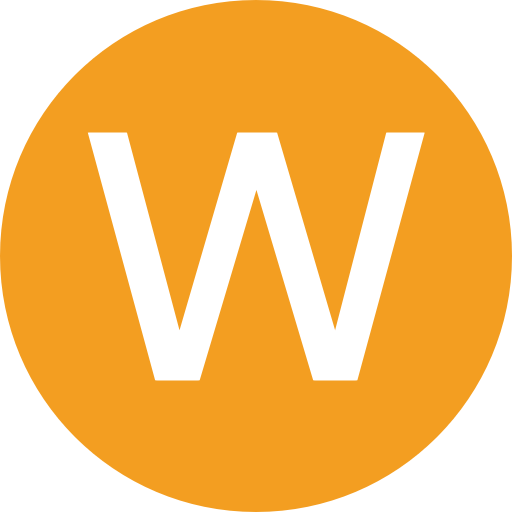
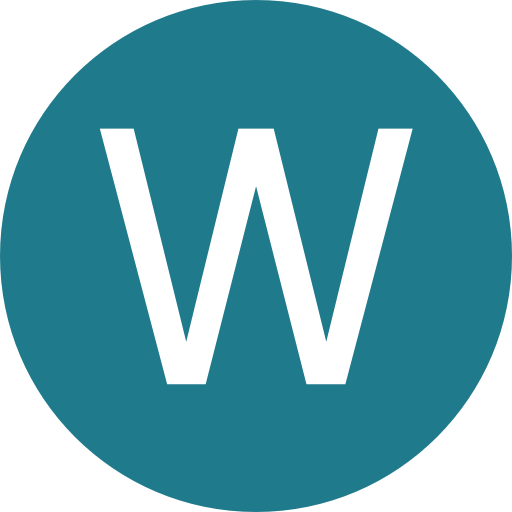
hrm works locally

diff --git a/frontend/pages/index.tsx b/frontend/pages/index.tsx
@@ -16,13 +16,13 @@ export default function Home(): JSX.Element {
   return (
     <div className={styles.page}>
       <Head>
-        <title>Wootware Clone</title>
-        <meta name="description" content="Wootware Clone — a personal storefront hobby project showcasing hardware products. For demo and learning purposes only." />
+        <title>WiredWorkshop</title>
+        <meta name="description" content="WiredWorkshop — a personal storefront hobby project showcasing hardware products. For demo and learning purposes only." />
         <meta name="author" content="Personal project" />
         <meta name="viewport" content="width=device-width, initial-scale=1" />
 
         {/* Open Graph / social */}
-        <meta property="og:title" content="Wootware Clone" />
+        <meta property="og:title" content="WiredWorkshop" />
         <meta property="og:description" content="A personal storefront hobby project showcasing hardware products. Not a production store." />
         <meta property="og:type" content="website" />
         <meta property="og:url" content="/" />
@@ -30,7 +30,7 @@ export default function Home(): JSX.Element {
 
         {/* Twitter */}
         <meta name="twitter:card" content="summary_large_image" />
-        <meta name="twitter:title" content="Wootware Clone" />
+        <meta name="twitter:title" content="WiredWorkshop" />
         <meta name="twitter:description" content="Personal storefront hobby project — demo site." />
       </Head>
       <Header />

diff --git a/frontend/components/header/header.module.css b/frontend/components/header/header.module.css
@@ -70,13 +70,13 @@
 .wishlistLink:focus-visible,
 .disabledLink:hover,
 .disabledLink:focus-visible {
-	color: #ff8c00; /* main theme orange */
+	color: #1f7a8c; /* main theme color */
 }
 
 .wishlistLink:hover .wishlistIcon,
 .wishlistLink:focus-visible .wishlistIcon {
 	transform: scale(1.06);
-	color: #ff8c00; /* ensure icon follows text color */
+	color: #1f7a8c; /* ensure icon follows text color */
 }
 
 .wishlistLink:active {
@@ -105,7 +105,7 @@
 
 .logo {
 	font-weight: 800;
-	color: #ff8c00;
+	color: #1f7a8c;
 	font-size: 24px;
 	position: relative;
 	display: inline-flex;
@@ -221,7 +221,7 @@
 /* Hover/focus only for working links */
 .category li a[href]:hover,
 .category li a[href]:focus {
-	color: #ff8c00;
+	color: #1f7a8c;
 }
 
 .brandActions {
@@ -316,8 +316,8 @@
 .searchBox input:focus,
 .searchBox input:focus-visible {
 	outline: none;
-	border-color: #ff8c00;
-	box-shadow: 0 0 0 4px rgba(255,140,0,0.10), 0 6px 18px rgba(255,140,0,0.12);
+	border-color: #1f7a8c;
+	box-shadow: 0 0 0 4px rgba(31,122,140,0.10), 0 6px 18px rgba(31,122,140,0.12);
 	transition: box-shadow .12s ease, border-color .12s ease;
 }
 
@@ -534,7 +534,7 @@
 
 .viewCart {
 	display: inline-block;
-	background: #ff8c00;
+	background: #1f7a8c;
 	color: #fff;
 	padding: 8px 12px;
 	text-decoration: none;

diff --git a/frontend/pages/_app.tsx b/frontend/pages/_app.tsx
@@ -9,12 +9,12 @@ export default function App({ Component, pageProps }: AppProps) {
   return (
     <div className={styles.root}>
       <Head>
-        <link rel="apple-touch-icon" sizes="180x180" href="/apple-touch-icon.png" />
-        <link rel="icon" type="image/png" sizes="32x32" href="/favicon-32x32.png" />
-        <link rel="icon" type="image/png" sizes="16x16" href="/favicon-16x16.png" />
-        <link rel="manifest" href="/site.webmanifest" />
-        <link rel="mask-icon" href="/safari-pinned-tab.svg" color="#ff8c00" />
-        <link rel="shortcut icon" href="/favicon.ico" />
+        <link rel="apple-touch-icon" sizes="180x180" href="/apple-touch-icon.png?v=2" />
+        <link rel="icon" type="image/png" sizes="32x32" href="/favicon-32x32.png?v=2" />
+        <link rel="icon" type="image/png" sizes="16x16" href="/favicon-16x16.png?v=2" />
+        <link rel="manifest" href="/site.webmanifest?v=2" />
+        <link rel="mask-icon" href="/safari-pinned-tab.svg?v=2" color="#1f7a8c" />
+        <link rel="shortcut icon" href="/favicon.ico?v=2" />
         <meta name="msapplication-TileColor" content="#ffffff" />
         <meta name="theme-color" content="#ffffff" />
       </Head>

diff --git a/frontend/components/product/ProductCard.tsx b/frontend/components/product/ProductCard.tsx
@@ -29,15 +29,10 @@ const API_BASE = typeof window === 'undefined'
   : (process.env.NEXT_PUBLIC_API_BASE_URL || '')
 
 export default function ProductCard({ name, title, vendor, sku, stock, thumbnail, price, slug, manufacturer, productType, cores, boostClock, microarchitecture, socket }: Props) {
-  // normalize legacy `/products/...` paths to `/images/products/...` so thumbnails resolve
   let t = thumbnail || null
-  if (t && typeof t === 'string' && t.startsWith('/products/')) {
-    t = t.replace(/^\/products\//, '/images/products/')
-  }
-  // If `t` is an absolute path (starts with '/'), use it directly so the browser
-  // requests the asset from the same origin (avoids cross-origin opaque blocking).
+  // If `t` is an absolute path (starts with '/'), use it directly so Next.js serves from frontend/public
   const src = t
-    ? (t.startsWith('http') ? t : (t.startsWith('/') ? t : `${API_BASE}${t}`))
+    ? (t.startsWith('http') ? t : t)
     : '/images/products/placeholder.png'
 
   function escapeRegExp(s: string) {

diff --git a/frontend/components/header/header.tsx b/frontend/components/header/header.tsx
@@ -125,7 +125,7 @@ export default function Header(): JSX.Element {
           <div className={styles.mobileRow1}>
             <div className={styles.mobileLogo}>
               <Link href="/">
-                <img src="/images/logo/logo.svg" alt="Wootware" className={styles.logoImage} />
+                <img src="/images/logo/logo2.svg" alt="WiredWorkshop" className={styles.logoImage} />
               </Link>
             </div>
             <div className={styles.mobileIcons}>
@@ -173,7 +173,7 @@ export default function Header(): JSX.Element {
         <div ref={brandRef} className={`${styles.brandRow} ${atTop ? styles.brandRowShifted : ''}`}>
           <div className={styles.logo}>
             <Link href="/">
-              <img src="/images/logo/logo.svg" alt="Wootware" className={styles.logoImage} />
+              <img src="/images/logo/logo2.svg" alt="WiredWorkshop" className={styles.logoImage} />
             </Link>
           </div>
           <nav className={styles.nav}>

diff --git a/frontend/components/product/ProductCard.module.css b/frontend/components/product/ProductCard.module.css
@@ -49,7 +49,7 @@
 
 .container:hover .title,
 .title:hover {
-  color: #ff8c00;
+  color: #1f7a8c;
 }
 
 .sku {
@@ -88,14 +88,14 @@
 }
 
 .wishlistButton {
-  background: #ff8c00;
+  background: #1f7a8c;
   border: none;
   color: #fff;
   padding: 6px 10px;
   border-radius: 0;
   cursor: pointer;
   font-weight: 600;
-  border: 1px solid #ff8c00;
+  border: 1px solid #1f7a8c;
   transition: background-color 180ms ease, color 180ms ease, border-color 180ms ease;
 }
 .actionsRow {
@@ -133,14 +133,14 @@
 /* When item is already in wishlist: white fill, orange text and orange border */
 .inWishlist {
   background: #ffffff;
-  color: #ff8c00;
-  border-color: #ff8c00;
+  color: #1f7a8c;
+  border-color: #1f7a8c;
 }
 
 .inCart {
   background: #ffffff;
-  color: #ff8c00;
-  border-color: #ff8c00;
+  color: #1f7a8c;
+  border-color: #1f7a8c;
 }
 
 .link {

diff --git a/frontend/styles/home.module.css b/frontend/styles/home.module.css
@@ -25,7 +25,7 @@
 
 .logo {
   font-weight: 800;
-  color: #ff8c00;
+  color: #1f7a8c;
   font-size: 24px;
 }
 
@@ -64,7 +64,7 @@
 .heroText {
   flex: 1;
   padding: 28px 18px;
-  background: linear-gradient(90deg, rgba(120,80,255,0.06), rgba(255,140,0,0.03));
+  background: linear-gradient(90deg, rgba(120,80,255,0.06), rgba(31,122,140,0.03));
   border-radius: 6px;
 }
 
@@ -102,7 +102,7 @@
   background: #fff;
   padding: 8px;
   border-radius: 4px;
-  color: #ff8c00;
+  color: #1f7a8c;
   font-weight: 700;
 }
 

diff --git a/frontend/components/landing/hero.tsx b/frontend/components/landing/hero.tsx
@@ -38,7 +38,7 @@ export default function Hero(): JSX.Element {
           <h1>BUILD. PLAY. CREATE.</h1>
           <p>Quality PC hardware, built for performance and reliability.</p>
           <div className={styles.heroLogoWrap}>
-            <img src="/images/logo/logo.svg" alt="Logo" className={styles.heroLogoLarge} />
+            <img src="/images/logo/logo2.svg" alt="Logo" className={styles.heroLogoLarge} />
           </div>
         </div>
         <div className={styles.heroSidebar}>

diff --git a/frontend/components/landing/hero.module.css b/frontend/components/landing/hero.module.css
@@ -10,7 +10,7 @@
 .heroText {
   flex: 1;
   padding: 28px 18px;
-  background: linear-gradient(90deg, rgba(120,80,255,0.06), rgba(255,140,0,0.03));
+  background: linear-gradient(90deg, rgba(120,80,255,0.06), rgba(31,122,140,0.03));
   border-radius: 6px;
 }
 
@@ -61,7 +61,7 @@
   background: #fff;
   padding: 8px;
   border-radius: 4px;
-  color: #ff8c00;
+  color: #1f7a8c;
   font-weight: 700;
 }
 

diff --git a/frontend/components/product/ProductActions.module.css b/frontend/components/product/ProductActions.module.css
@@ -28,7 +28,7 @@
 }
 
 .addButton {
-	background: #ff8c00;
+	background: #1f7a8c;
 	color: #fff;
 	border: none;
 	padding: 10px 14px;
@@ -37,8 +37,8 @@
 
 .wishlistButtonLarge {
 	background: transparent;
-	border: 1px solid #ff8c00;
-	color: #ff8c00;
+	border: 1px solid #1f7a8c;
+	color: #1f7a8c;
 	padding: 10px 14px;
 	cursor: pointer;
 	font-weight: 700;

diff --git a/frontend/next-env.d.ts b/frontend/next-env.d.ts
@@ -1,6 +1,6 @@
 /// <reference types="next" />
 /// <reference types="next/image-types/global" />
-import "./.next/dev/types/routes.d.ts";
+/// <reference path="./.next/types/routes.d.ts" />
 
 // NOTE: This file should not be edited
 // see https://nextjs.org/docs/pages/api-reference/config/typescript for more information.

diff --git a/frontend/pages/wishlist.tsx b/frontend/pages/wishlist.tsx
@@ -23,7 +23,7 @@ export default function WishlistPage(): JSX.Element {
   return (
     <div className={styles.root}>
       <Head>
-        <title>Wishlist - Wootware Clone</title>
+        <title>Wishlist - WiredWorkshop</title>
       </Head>
       <Header />
       <h1 className={styles.heading}>My Wishlist</h1>
